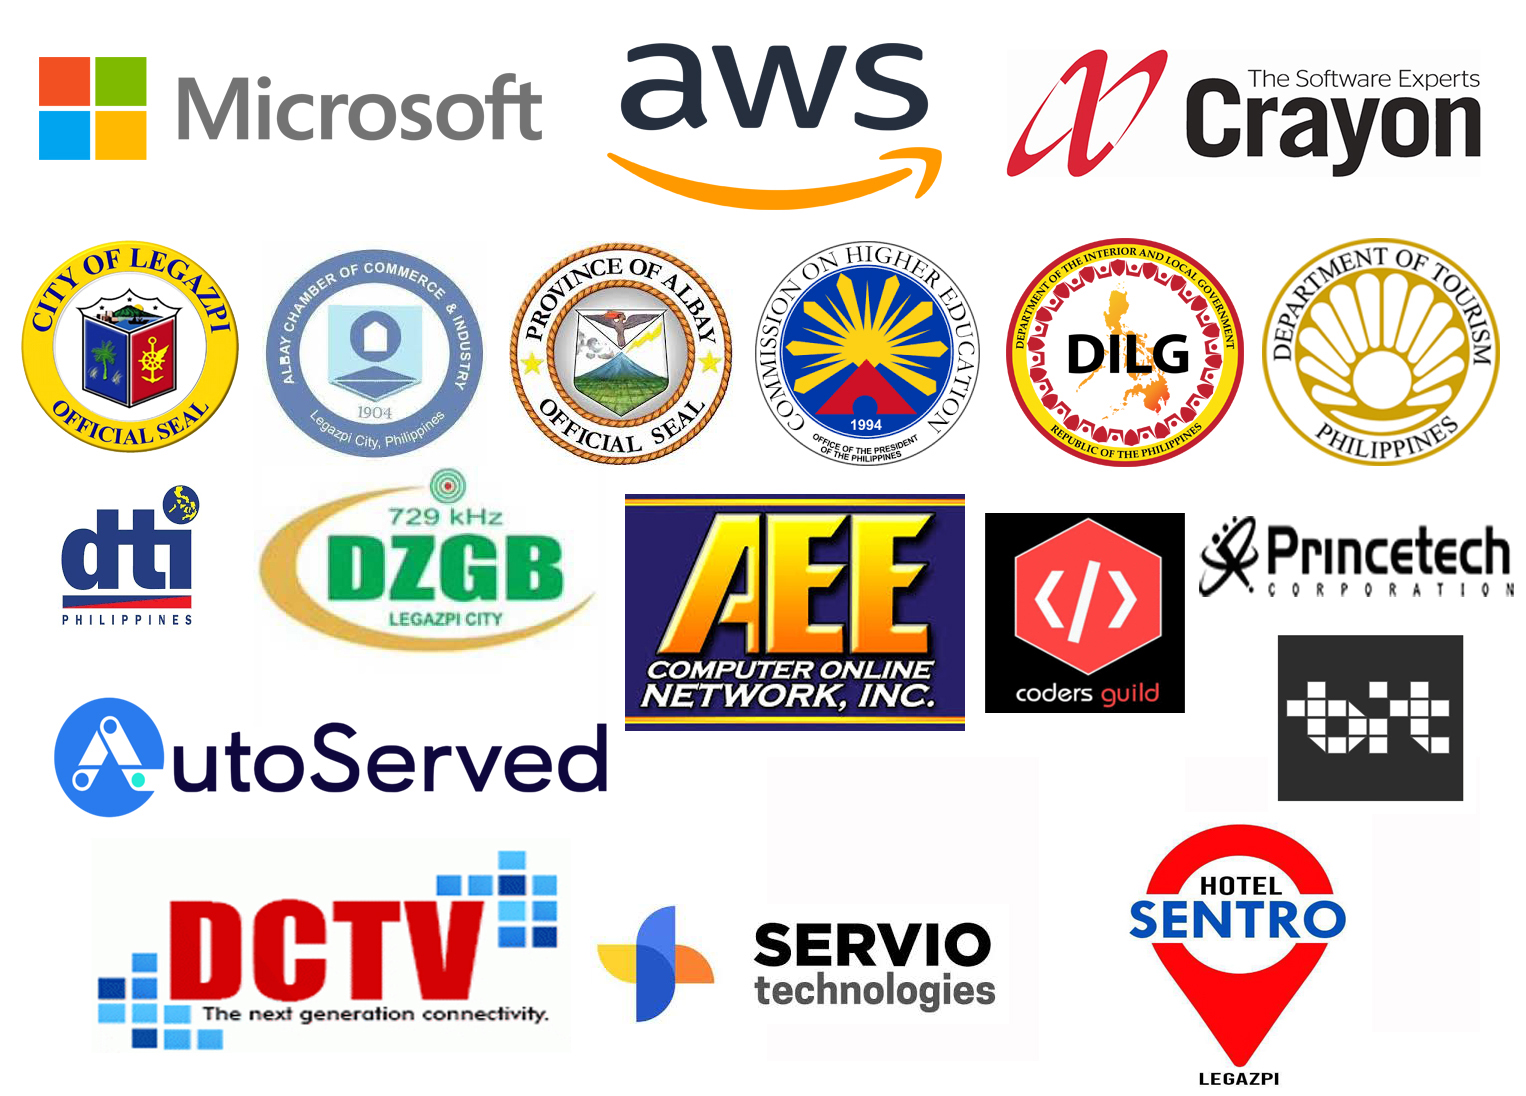
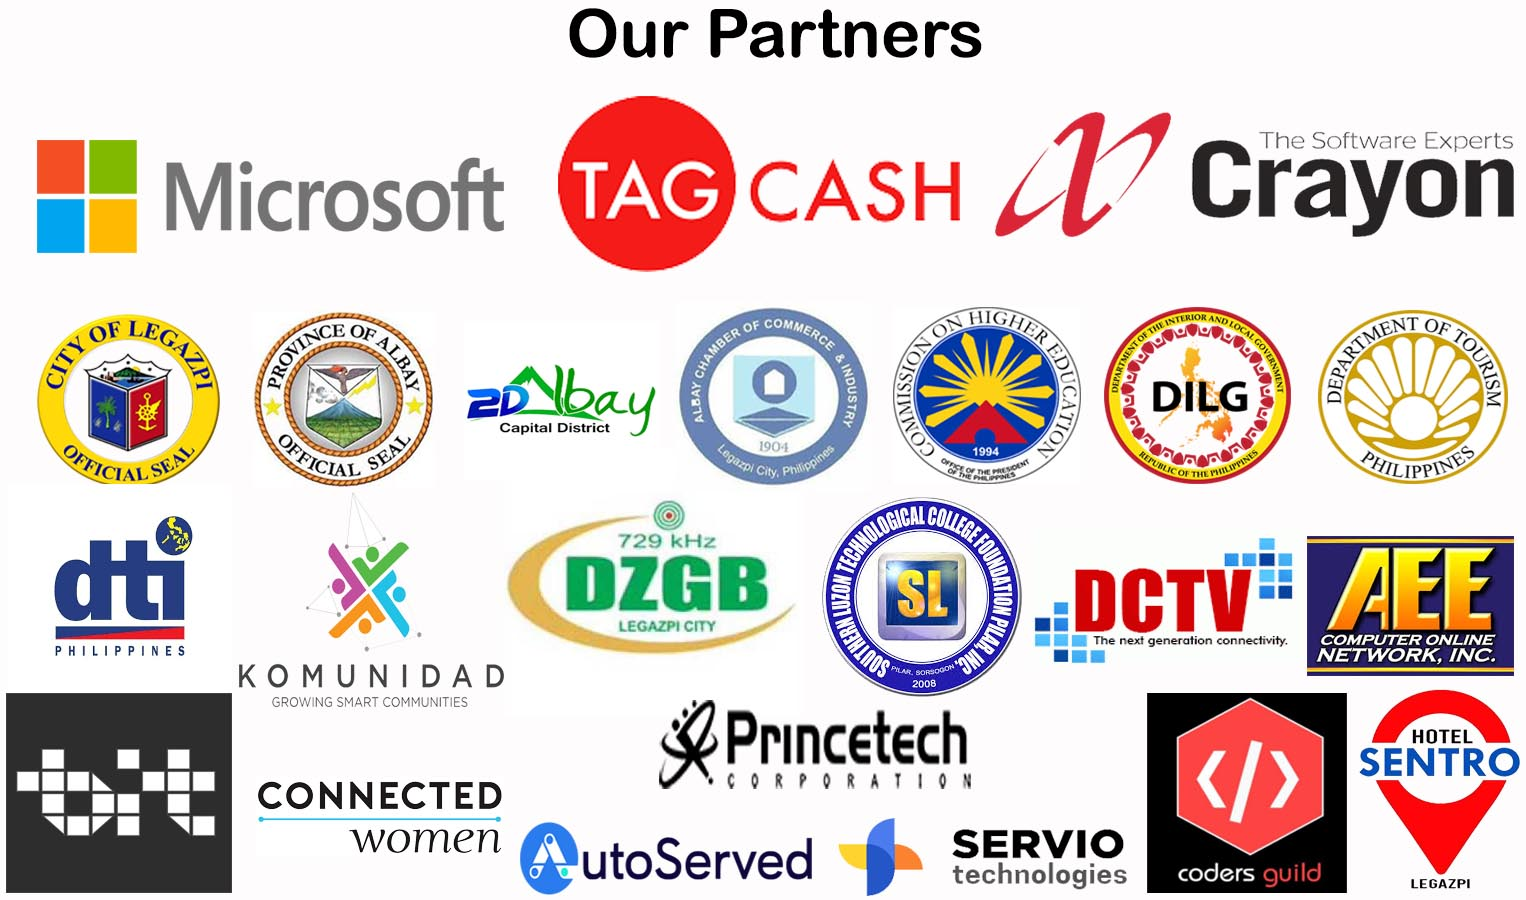
WAS Q

diff --git a/index.html b/index.html
@@ -182,7 +182,7 @@
 						<li><a href="#mu-schedule">Schedule</a></li>
 						<li><a href="#mu-speakers">Speakers</a></li>
 						<li><a href="#mu-venue">Venue</a></li>
-						<li><a href="#mu-sponsors">Sponsors</a></li>
+						<li><a href="#mu-sponsors">Partners</a></li>
 						<li><a href="#mu-contact">Contact</a></li>
 					</ul>
 				</div><!-- /.navbar-collapse -->
@@ -1389,10 +1389,7 @@
 						<div class="col-md-12">
 							<div class="mu-sponsors-area">
 								
-								<div class="mu-title-area">
-									<h2 class="mu-title">Our Partners</h2>
-								
-								</div>
+							
 								
 								<!-- Start spnonsors brand logo -->
 								<div class="mu-sponsors-content">
